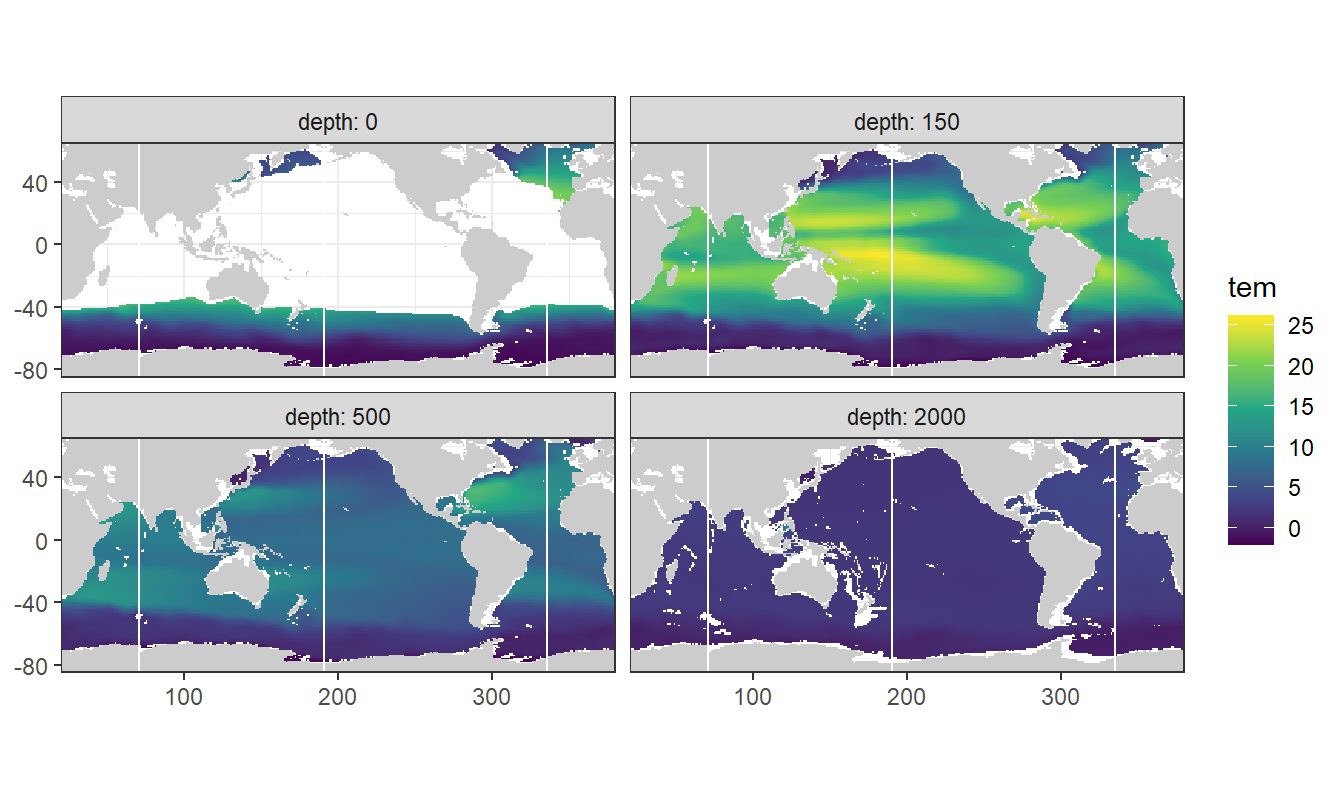
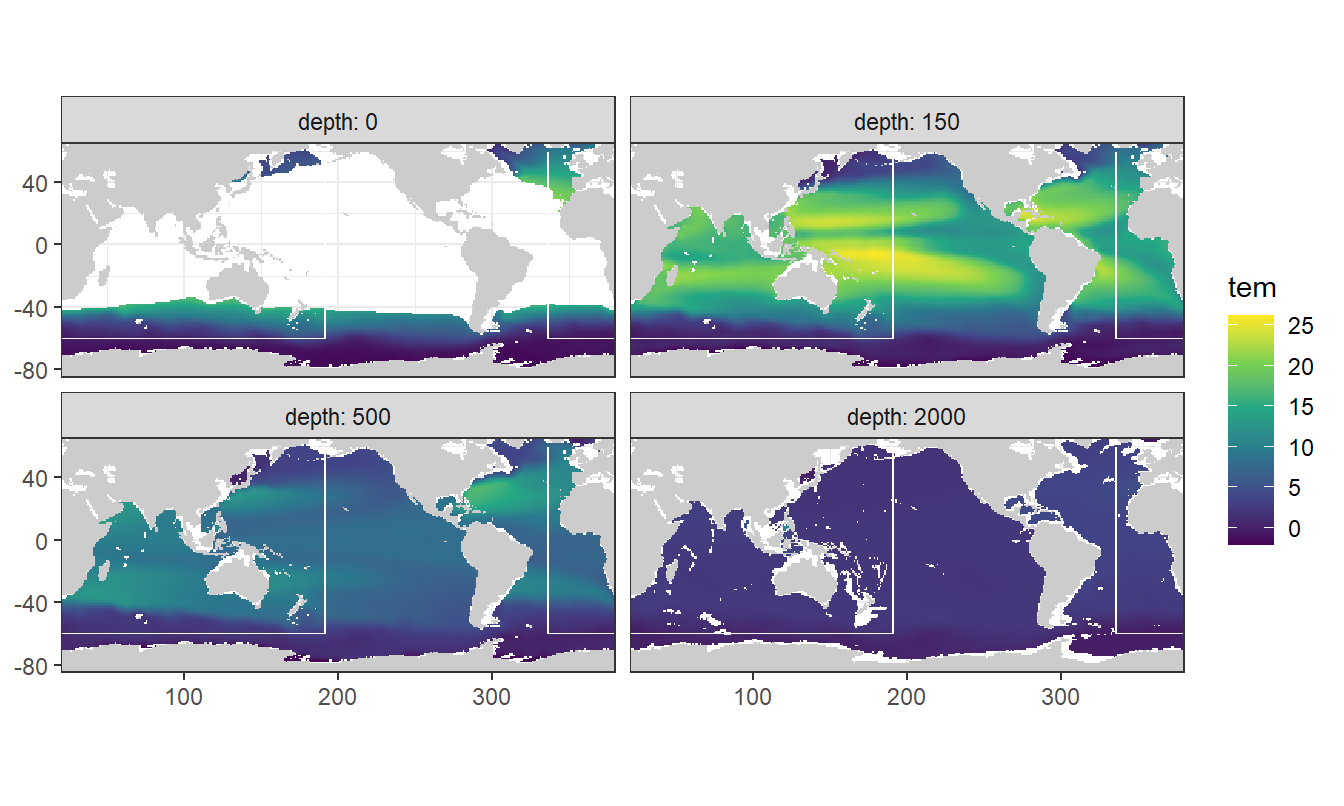
Build site.

diff --git a/docs/read_World_Ocean_Atlas_2018.html b/docs/read_World_Ocean_Atlas_2018.html
@@ -618,16 +618,16 @@ This reproducible <a href="http://rmarkdown.rstudio.com">R Markdown</a> analysis
 <div class="panel panel-default">
 <div class="panel-heading">
 <p class="panel-title">
-<a data-toggle="collapse" data-parent="#workflowr-checks" href="#strongRepositoryversionstrongahrefhttpsgithubcomjensdanielmuellerCanteMLRtree8001403180a078c8d6fa47323d99dd6feb65dc29targetblank8001403a"> <span class="glyphicon glyphicon-ok text-success" aria-hidden="true"></span> <strong>Repository version:</strong> <a href="https://github.com/jens-daniel-mueller/Cant_eMLR/tree/8001403180a078c8d6fa47323d99dd6feb65dc29" target="_blank">8001403</a> </a>
+<a data-toggle="collapse" data-parent="#workflowr-checks" href="#strongRepositoryversionstrongahrefhttpsgithubcomjensdanielmuellerCanteMLRtree5c58ade1fe1b1e0cfbc16d22ed478afe86c78afftargetblank5c58adea"> <span class="glyphicon glyphicon-ok text-success" aria-hidden="true"></span> <strong>Repository version:</strong> <a href="https://github.com/jens-daniel-mueller/Cant_eMLR/tree/5c58ade1fe1b1e0cfbc16d22ed478afe86c78aff" target="_blank">5c58ade</a> </a>
 </p>
 </div>
[2 lines of base64/hex data omitted]
 <div class="panel-body">
 <p>
 Great! You are using Git for version control. Tracking code development and connecting the code version to the results is critical for reproducibility.
 </p>
 <p>
-The results in this page were generated with repository version <a href="https://github.com/jens-daniel-mueller/Cant_eMLR/tree/8001403180a078c8d6fa47323d99dd6feb65dc29" target="_blank">8001403</a>. See the <em>Past versions</em> tab to see a history of the changes made to the R Markdown and HTML files.
+The results in this page were generated with repository version <a href="https://github.com/jens-daniel-mueller/Cant_eMLR/tree/5c58ade1fe1b1e0cfbc16d22ed478afe86c78aff" target="_blank">5c58ade</a>. See the <em>Past versions</em> tab to see a history of the changes made to the R Markdown and HTML files.
 </p>
 <p>
 Note that you need to be careful to ensure that all relevant files for the analysis have been committed to Git prior to generating the results (you can use <code>wflow_publish</code> or <code>wflow_git_commit</code>). workflowr only checks the R Markdown file, but you know if there are other scripts or data files that it depends on. Below is the status of the Git repository when the results were generated:
@@ -684,6 +684,40 @@ Message
 </tr>
 </thead>
 <tbody>
+<tr>
+<td>
+Rmd
+</td>
+<td>
+<a href="https://github.com/jens-daniel-mueller/Cant_eMLR/blob/5c58ade1fe1b1e0cfbc16d22ed478afe86c78aff/analysis/read_World_Ocean_Atlas_2018.Rmd" target="_blank">5c58ade</a>
+</td>
+<td>
+jens-daniel-mueller
+</td>
+<td>
+2020-09-10
+</td>
+<td>
+global section included on maps
+</td>
+</tr>
+<tr>
+<td>
+html
+</td>
+<td>
+<a href="https://rawcdn.githack.com/jens-daniel-mueller/Cant_eMLR/541d38316d9486c22070e7f01204278bb0fa32f0/docs/read_World_Ocean_Atlas_2018.html" target="_blank">541d383</a>
+</td>
+<td>
+jens-daniel-mueller
+</td>
+<td>
+2020-09-10
+</td>
+<td>
+Build site.
+</td>
+</tr>
 <tr>
 <td>
 Rmd
@@ -3088,12 +3122,6 @@ WOA18_predictors &lt;- as_tibble(WOA18_predictors)</code></pre>
 <h3><span class="header-section-number">3.5.3</span> Write/open file</h3>
 <pre class="r"><code>WOA18_predictors %&gt;% 
   write_csv(here::here(&quot;data/World_Ocean_Atlas_2018/_summarized_files&quot;,
-                       &quot;WOA18_predictors.csv&quot;))</code></pre>
-<pre class="r"><code>rm(list = setdiff(ls(), c(&quot;landmask&quot;, &quot;parameters&quot;, &quot;section_global_coordinates&quot;)))
-source(here::here(&quot;code&quot;, &quot;plotting_functions.R&quot;))
-
-WOA18_predictors &lt;- 
-  read_csv(here::here(&quot;data/World_Ocean_Atlas_2018/_summarized_files&quot;,
                        &quot;WOA18_predictors.csv&quot;))</code></pre>
 </div>
 </div>
